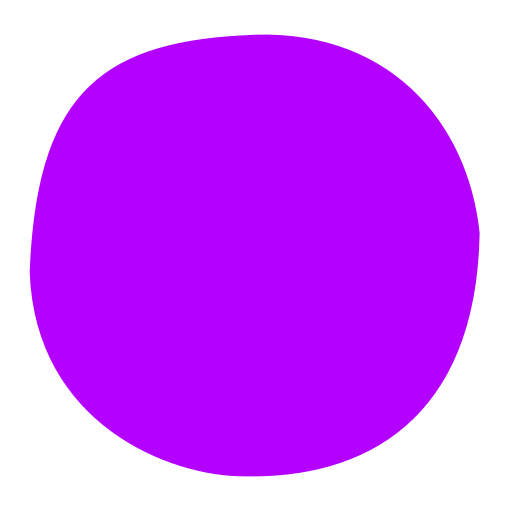
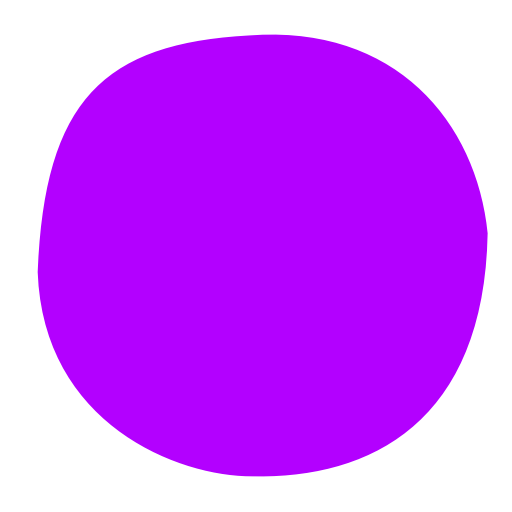
3dtest improvements
- Hide unselected planets when one is selected
- Changed Earth default rotation

diff --git a/projects/experiments/3dtest/main.js b/projects/experiments/3dtest/main.js
@@ -39,8 +39,8 @@ const earthPos = new THREE.Vector3(0, 0, 3.3)
 const moonPos = new THREE.Vector3(0, 0, -3.3)
 
 const mainCamPos = new THREE.Vector3(8, 0, 0)
-const earthCamPos = new THREE.Vector3(4.8, 1, 4.8)
-const moonCamPos = new THREE.Vector3(3, 1, -4.5)
+const earthCamPos = new THREE.Vector3(3.6, 1, -0.6)
+const moonCamPos = new THREE.Vector3(2, 0.7, -0.8)
 
 let earth;
 let earthModel
@@ -66,6 +66,7 @@ function load_planets() {
     loader.load('earth.glb', function (gltf) {
         gltf.scene.position.set(earthPos.x, earthPos.y, earthPos.z)
         gltf.scene.scale.set(0.125, 0.125, 0.125)
+        gltf.scene.rotateY(8.5)
         scene.add(gltf.scene)
         console.log("Model laoded!")
         earth = gltf
@@ -85,14 +86,18 @@ function load_planets() {
             if (currentMenu == "main") {
                 pod_select.play()
                 change_planet(earthCamPos, earthPos, true, "earth", false)
+            } else {
+                return
             }
             currentMenu = "earth"
         })
         earthCollision.addEventListener("mouseover", () => {
             ui_planetSelectorTarget = earthPos
-            ui_planetSelectorScale = new THREE.Vector3(1, 1, 1)
+            ui_planetSelectorScale = new THREE.Vector3(1.05, 1.05, 1.05)
             if (currentMenu == "main") {
                 pod_move.play()
+            } else {
+                return
             }
         }) 
         earthCollision.addEventListener("mouseleave", () => {
@@ -123,6 +128,8 @@ function load_planets() {
             if (currentMenu == "main") {
                 pod_select.play()
                 change_planet(moonCamPos, moonPos, true, "moon", false)
+            } else {
+                return
             }
             currentMenu = "moon"
         })
@@ -167,7 +174,7 @@ scene.add(ui_planetSelector)
 load_planets()
 
 const controls = new OrbitControls(camera, renderer.domElement)
-controls.enableZoom = false
+controls.enableZoom = true
 controls.enableDamping = true
 controls.dampingFactor = 0.05
 controls.rotateSpeed = 0.3
@@ -230,14 +237,46 @@ ui_backButton.addEventListener("click", () => {
     currentMenu = "main"
 })
 
+function planet_visibility() {
+    if (earthModel != undefined && moonModel != undefined) {
+        let lerpSpeed = 0.01
+        switch (currentMenu) {
+            case "earth":
+                earthModel.position.lerp(new THREE.Vector3(earthPos.x, earthPos.y, earthPos.z), lerpSpeed)
+                moonModel.position.lerp(new THREE.Vector3(moonPos.x, moonPos.y, -50), lerpSpeed)
+            break
+            case "moon":
+                earthModel.position.lerp(new THREE.Vector3(moonPos.y, earthPos.y,50), lerpSpeed)
+                moonModel.position.lerp(new THREE.Vector3(moonPos.x, moonPos.y, moonPos.z), lerpSpeed)
+            break
+            case "main":
+                earthModel.position.lerp(new THREE.Vector3(earthPos.x, earthPos.y, earthPos.z), 0.5)
+                moonModel.position.lerp(new THREE.Vector3(moonPos.x, moonPos.y, moonPos.z), 0.5)
+            break
+        }
+        if (earthModel.position.distanceTo(new THREE.Vector3(0, 0, 0)) > 10) {
+            earthModel.visible = false
+        } else {
+            earthModel.visible = true
+        }
+        if (moonModel.position.distanceTo(new THREE.Vector3(0, 0, 0)) > 10) {
+            moonModel.visible = false
+        } else {
+            moonModel.visible = true
+        }
+    }
+}
+
 // Redraw
 function animate(time) {
-    move_camera(cameraPos, 0.1)
-    move_target(cameraTarget, 0.1)
+    move_camera(cameraPos, 0.15)
+    move_target(cameraTarget, 0.15)
     controls.update()
-    renderer.render(scene, camera)
     interactionManager.update()
     planet_selector()
+    planet_visibility()
+    renderer.render(scene, camera)
+    console.log(camera.position)
 }
 
 function planet_selector() {
@@ -252,7 +291,7 @@ function planet_selector() {
 }
 
 function move_camera(pos, speed) {
-    if (camera.position.distanceTo(cameraPos) > 0.01 && animatingCamera == true) {
+    if (camera.position.distanceTo(cameraPos) > 0.015 && animatingCamera == true) {
         camera.position.lerp(pos, speed)
     } else {
         animatingCamera = false

diff --git a/projects/experiments/3dtest/index.html b/projects/experiments/3dtest/index.html
@@ -20,7 +20,7 @@
 </head>
 <body>
     <div id="back_button">
-        <img src="assets/arrow_back.svg">
+        <img draggable="false" src="assets/arrow_back.svg">
     </div>
     <div id="loading"></div>
 </body>

diff --git a/projects/experiments/3dtest/style.css b/projects/experiments/3dtest/style.css
@@ -33,6 +33,7 @@ body {
     position: absolute;
     left: 1vw;
     top: 2vh;
+    user-select: none;
 }
 
 #back_button img {